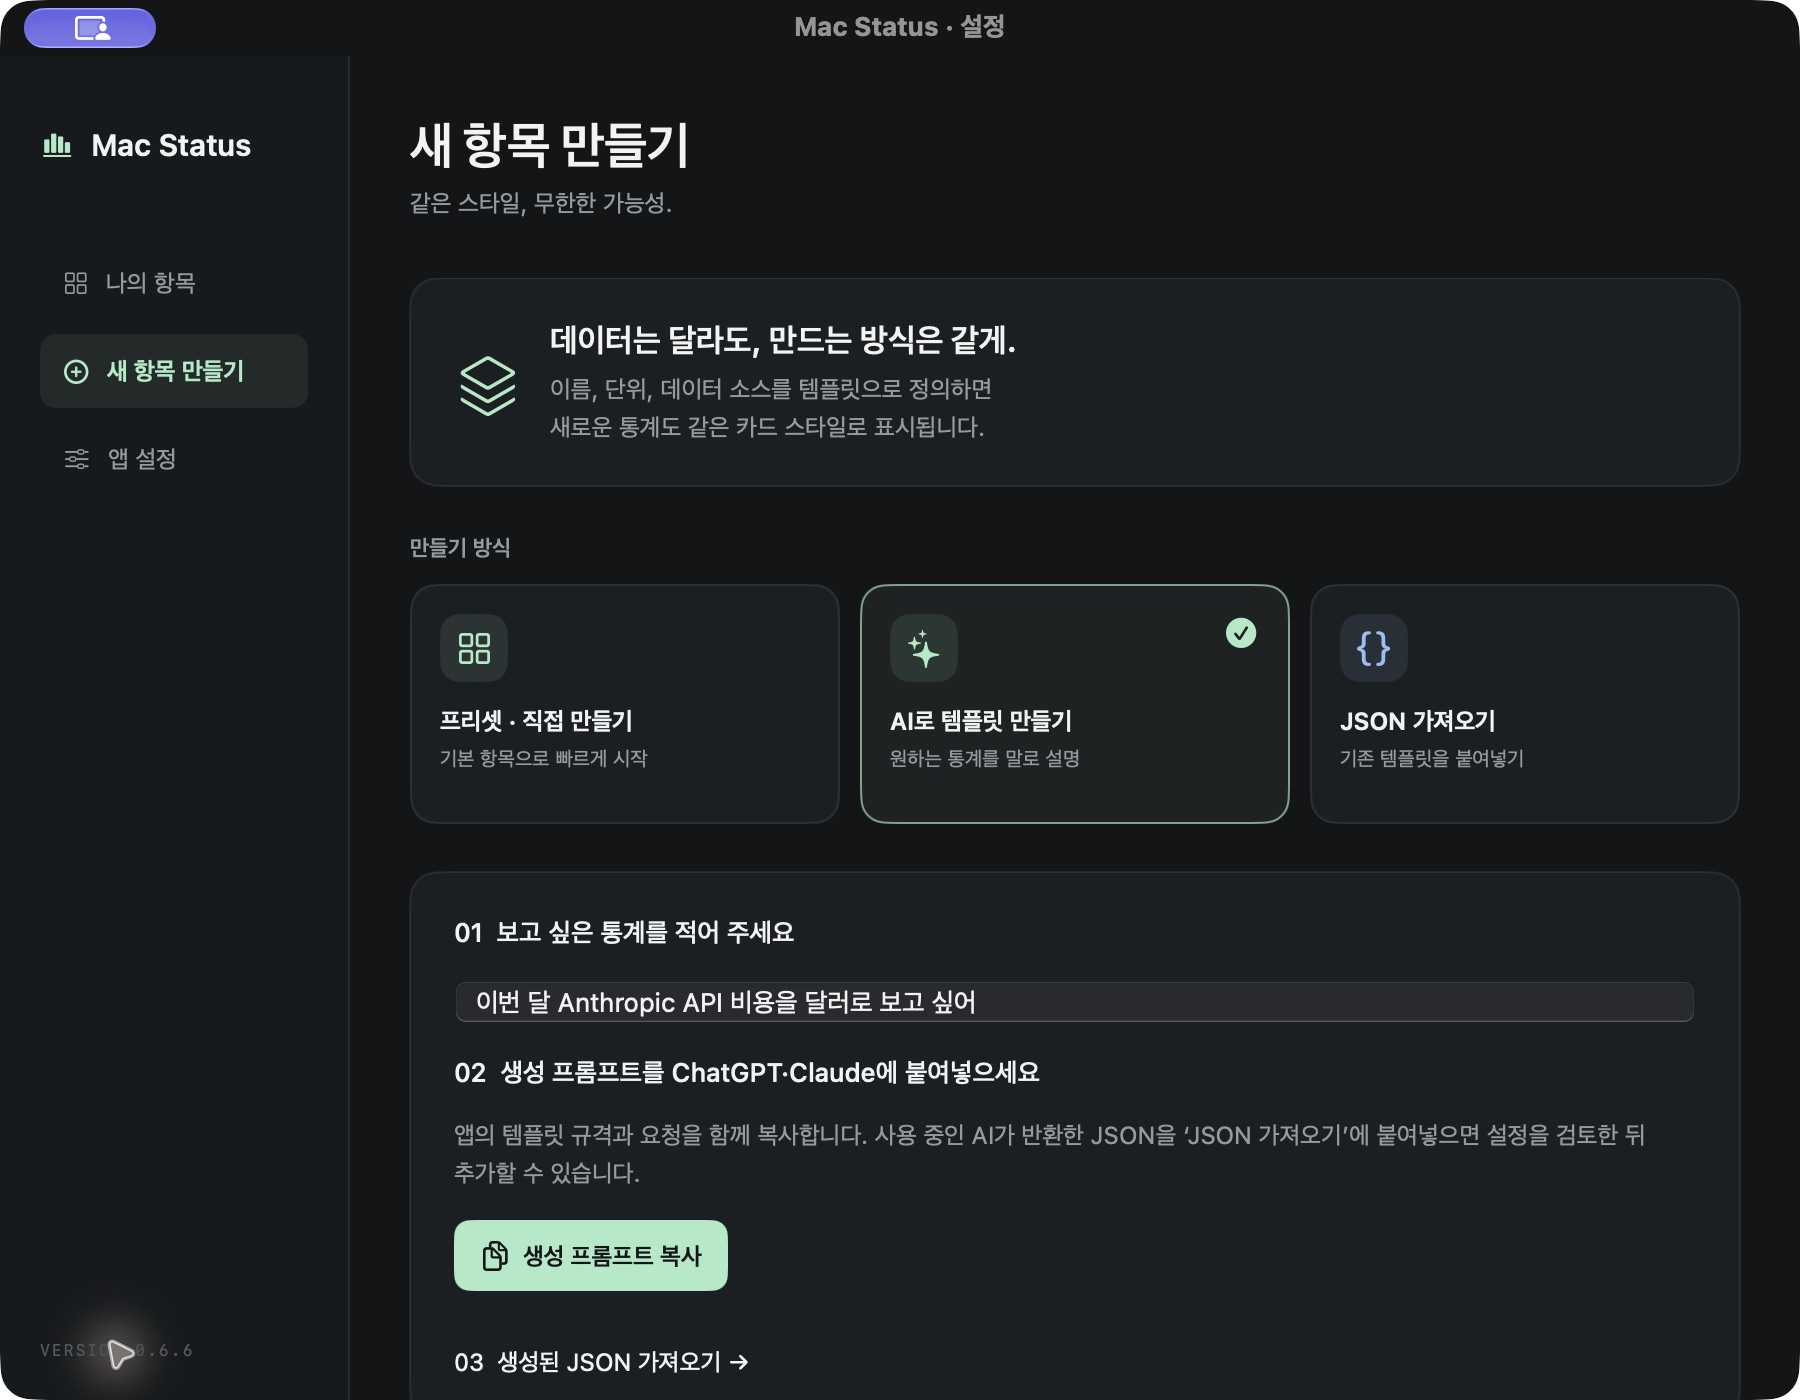
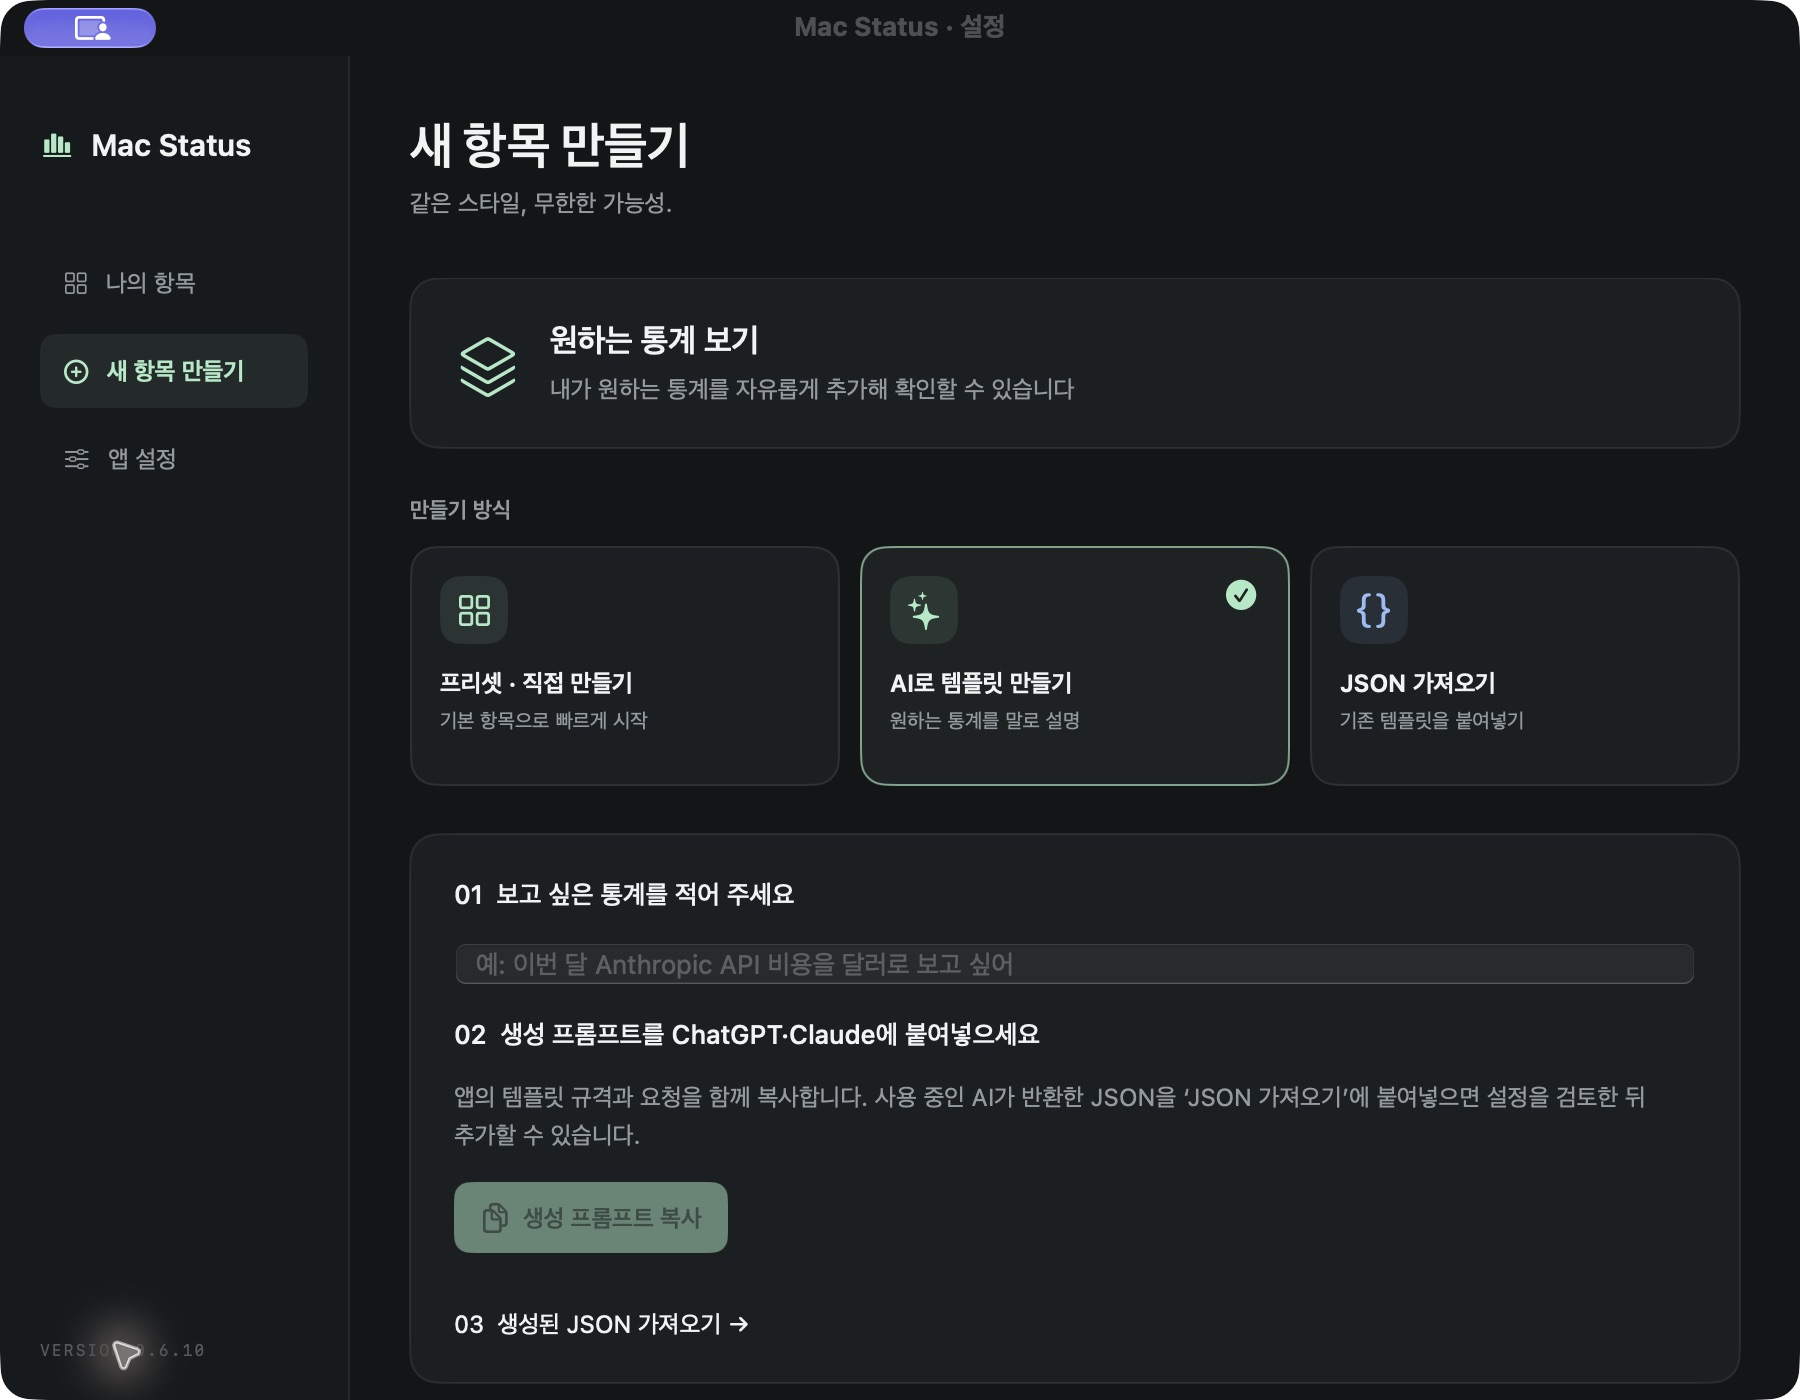
Clarify the template builder introduction

diff --git a/Sources/MacStatus/SettingsView.swift b/Sources/MacStatus/SettingsView.swift
@@ -218,8 +218,8 @@ struct TemplateBuilderView: View {
             HStack(spacing: 14) {
                 Image(systemName: "square.stack.3d.up").font(.system(size: 28, weight: .light)).foregroundStyle(Palette.mint)
                 VStack(alignment: .leading, spacing: 7) {
-                    Text("데이터는 달라도, 만드는 방식은 같게.").font(.system(size: 16, weight: .semibold))
-                    Text("이름, 단위, 데이터 소스를 템플릿으로 정의하면\n새로운 통계도 같은 카드 스타일로 표시됩니다.")
+                    Text("원하는 통계 보기").font(.system(size: 16, weight: .semibold))
+                    Text("내가 원하는 통계를 자유롭게 추가해 확인할 수 있습니다")
                         .font(.system(size: 12)).foregroundStyle(Palette.muted).lineSpacing(4)
                 }
             }.padding(22).frame(maxWidth: .infinity, alignment: .leading).cardSurface()
